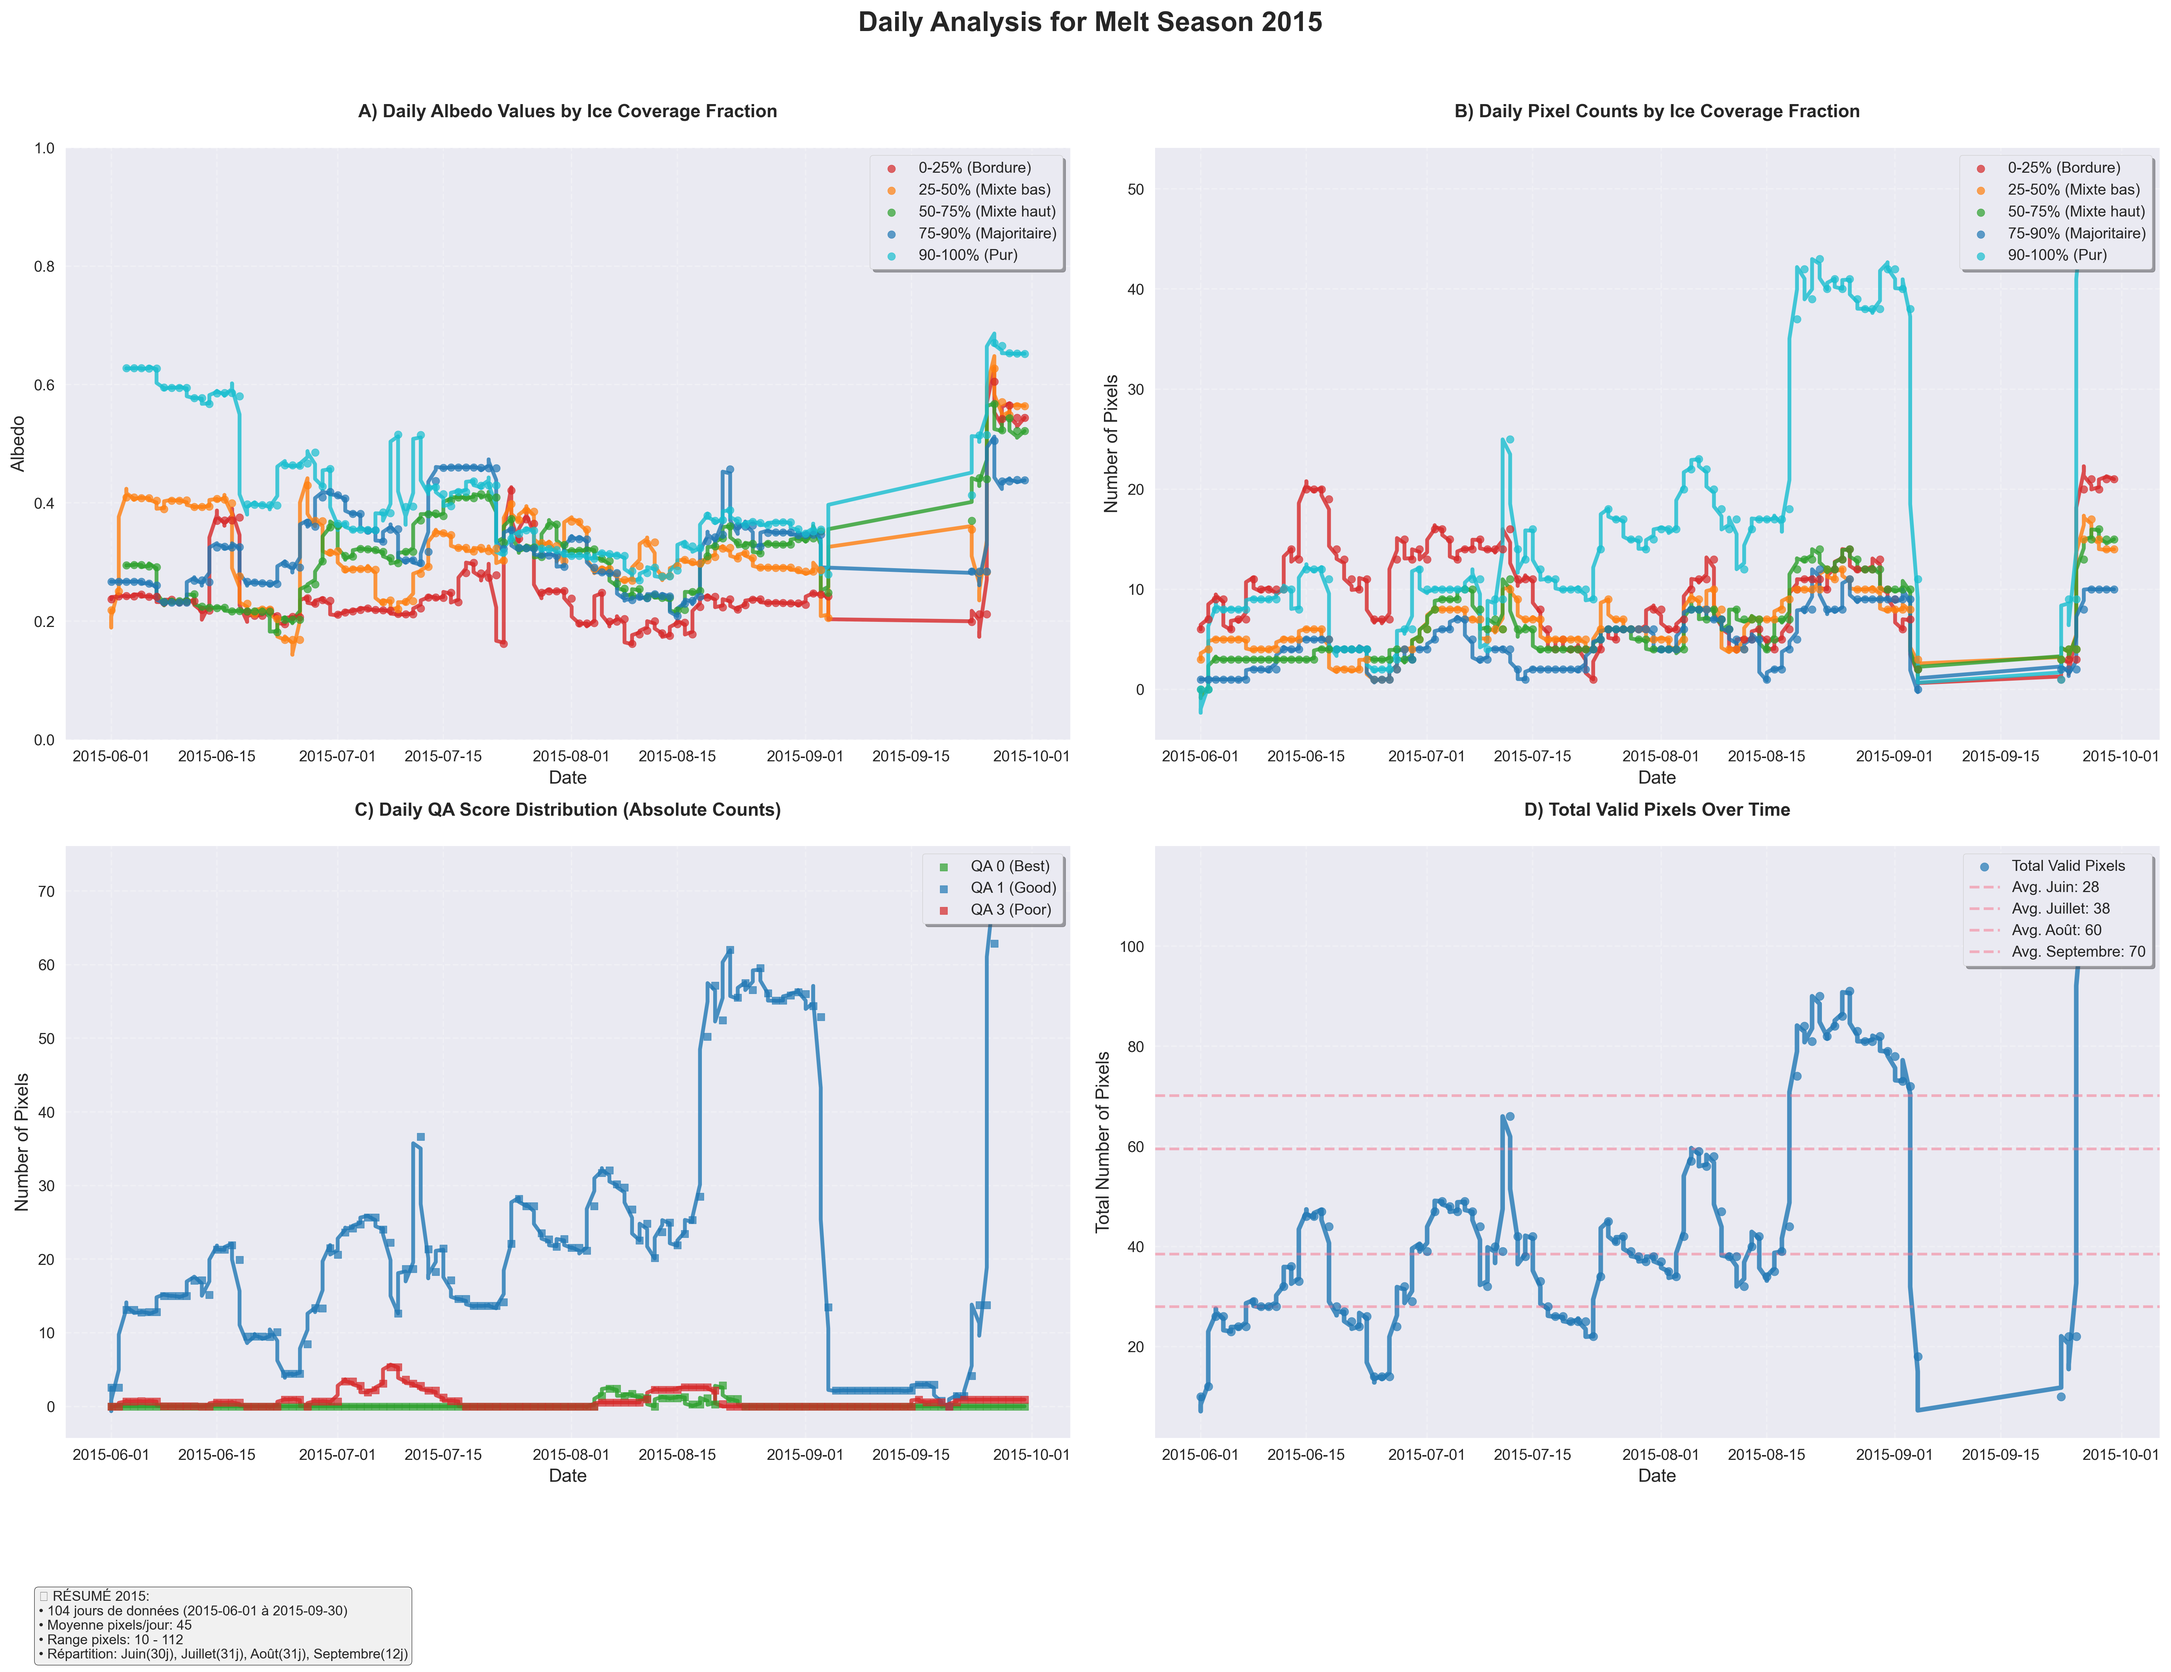
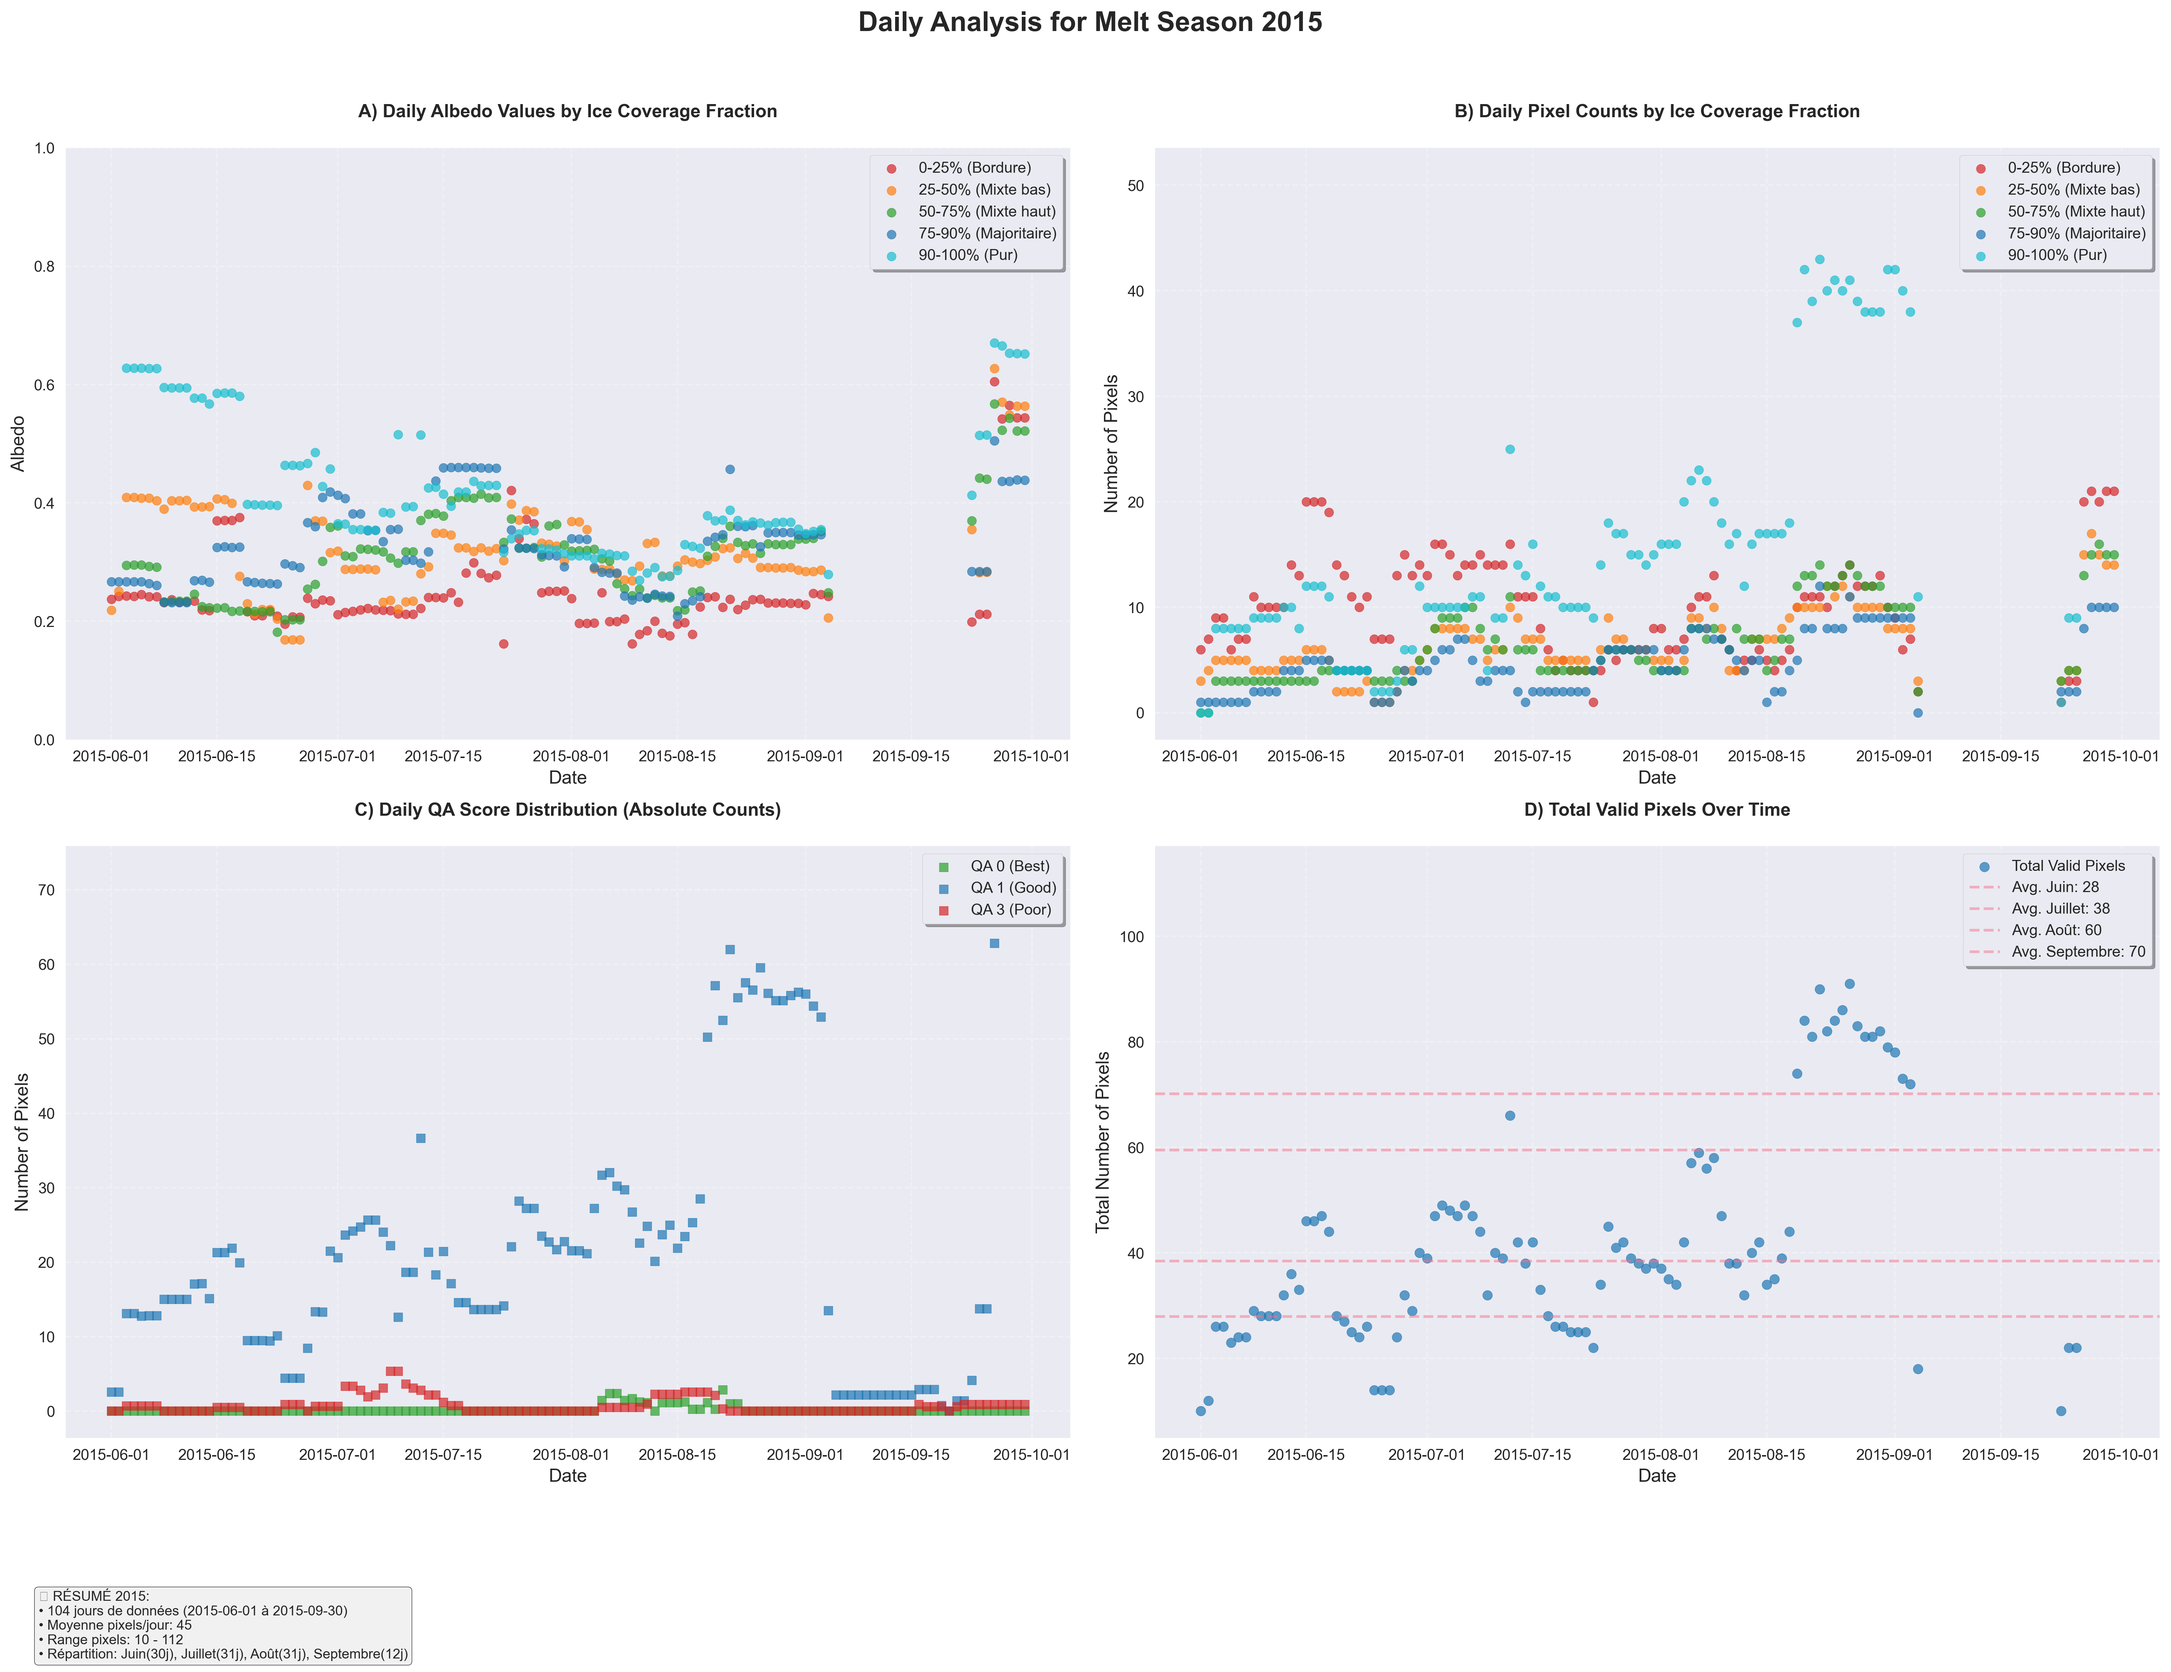
Restore connected lines for albedo subplot while keeping scatter for others
- Added back connected lines with markers for albedo values (subplot A)
- Albedo trends are better visualized with continuous lines
- Kept scatter-only plots for pixel counts, QA scores, and total pixels
- Hybrid approach: lines for trends (albedo) + scatter for counts/discrete data

🤖 Generated with [Claude Code](https://claude.ai/code)

diff --git a/src/saskatchewan_albedo/visualization/pixel_plots.py b/src/saskatchewan_albedo/visualization/pixel_plots.py
@@ -463,10 +463,10 @@ class PixelVisualizer:
             if albedo_col in year_data.columns:
                 albedo_data = year_data[albedo_col].dropna()
                 if len(albedo_data) > 0:
-                    ax1.scatter(year_data['date'], year_data[albedo_col], 
-                               s=35, alpha=0.7, 
-                               label=self.class_labels[fraction],
-                               color=self.academic_colors.get(fraction, 'gray'))
+                    ax1.plot(year_data['date'], year_data[albedo_col], 
+                            marker='o', markersize=4, linewidth=2, alpha=0.8,
+                            label=self.class_labels[fraction],
+                            color=self.academic_colors.get(fraction, 'gray'))
         
         ax1.set_title('A) Daily Albedo Values by Ice Coverage Fraction', fontweight='bold', pad=20)
         ax1.set_xlabel('Date', fontsize=12)
